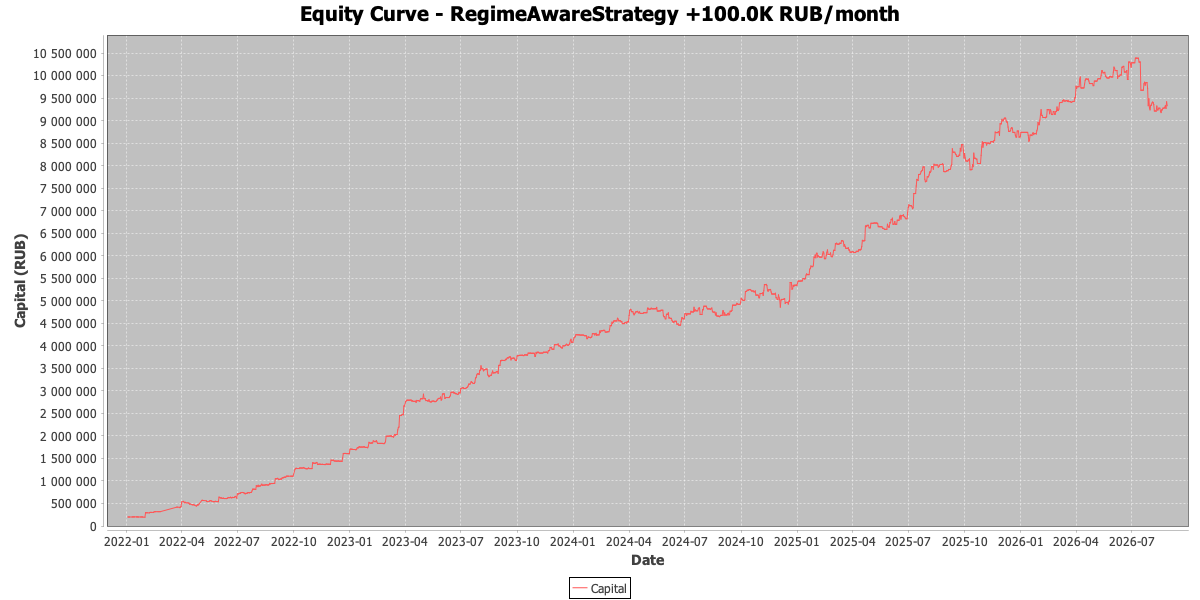
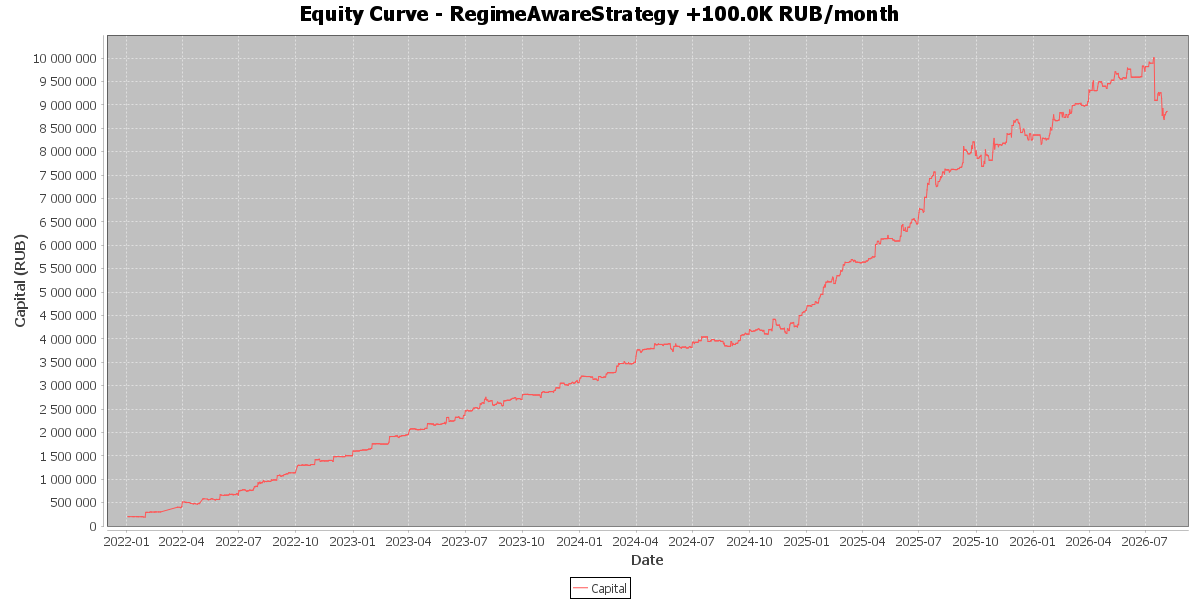
🐛 fix: align backtest with live and repair live trading issues
- restore throttled HOLD decision logging (30 min per ticker)

- trim backtest candle history to the live lookback window (60d HOUR / 72h 5_MIN)

- fix futures execution price normalization fallback (IMOEXF case)

- sync positions into delegate strategy so TMON@ parking sees open positions

- cooldown TMON@ after a failed parking order to stop retry spam

- add unifiedTrader.verboseLogging.enabled switch for diagnostic logs

- force UTF-8 stdout/stderr for runStrategy/runBacktest tasks

- ignore generated backtest-report.txt, update strategy chart

diff --git a/src/main/java/com/github/shk0da/goldendragon/strategy/BaseStrategy.java b/src/main/java/com/github/shk0da/goldendragon/strategy/BaseStrategy.java
@@ -462,12 +462,17 @@ import static java.util.concurrent.CompletableFuture.runAsync;
         if (cooldownUntil != null) {
             long remaining = cooldownUntil - timeProvider.currentTimeMillis();
             if (remaining > 0) {
-                log(
+                String cooldownMessage =
                         "Ticker "
                                 + name
                                 + " is on cooldown for "
                                 + (remaining / 1000)
-                                + "s, skipping.");
+                                + "s, skipping.";
+                if ("TMON@".equals(name)) {
+                    logThrottled(name + "_cooldown", cooldownMessage, 30);
+                } else {
+                    log(cooldownMessage);
+                }
                 return;
             } else {
                 tickerCooldown.remove(name);
@@ -547,15 +552,17 @@ import static java.util.concurrent.CompletableFuture.runAsync;
                         if (tmonPrice != null && tmonPrice > 0) {
                             double tmonValue = tmonQty * tmonPrice;
                             effectiveBalance = balance + tmonValue;
-                            log(
-                                    "EFFECTIVE-BALANCE "
-                                            + name
-                                            + ": cash="
-                                            + String.format("%.2f", balance)
-                                            + " + tmon="
-                                            + String.format("%.2f", tmonValue)
-                                            + " = "
-                                            + String.format("%.2f", effectiveBalance));
+                            if (isVerboseLogging()) {
+                                log(
+                                        "EFFECTIVE-BALANCE "
+                                                + name
+                                                + ": cash="
+                                                + String.format("%.2f", balance)
+                                                + " + tmon="
+                                                + String.format("%.2f", tmonValue)
+                                                + " = "
+                                                + String.format("%.2f", effectiveBalance));
+                            }
                         }
                     }
                 } catch (Exception ignored) {
@@ -566,7 +573,18 @@ import static java.util.concurrent.CompletableFuture.runAsync;
             TradingDecision decision =
                     decide(name, hourCandles, minuteCandles, storedPosition, effectiveBalance, hourChanged);
 
-            if (!"HOLD".equals(decision.action)) {
+            if ("HOLD".equals(decision.action)) {
+                // keep hold reasons visible with coarse throttling to avoid log spam
+                logThrottled(
+                    "hold_" + name,
+                    "HOLD "
+                        + name
+                        + ": reason="
+                        + decision.reason
+                        + " balance="
+                        + String.format("%.2f", balance),
+                    30);
+            } else {
                 logThrottled(
                     "decision_" + name,
                     "DECISION "
@@ -827,6 +845,8 @@ import static java.util.concurrent.CompletableFuture.runAsync;
                 String failedLogMessage =
                         "Failed to open " + decision.updatedPosition.direction + " for " + name + ".";
                 if ("TMON@".equals(name)) {
+                    // avoid retrying an untradable parking instrument every cycle
+                    tickerCooldown.put(name, timeProvider.currentTimeMillis() + COOLDOWN_DURATION_MS);
                     logThrottled(name + "_failed_open", failedLogMessage, 5);
                 } else {
                     log(failedLogMessage);
@@ -1469,6 +1489,9 @@ import static java.util.concurrent.CompletableFuture.runAsync;
      * @param throttleMinutes minutes to wait between logs for the same key
      */
     protected void logThrottled(String key, String message, long throttleMinutes) {
+        if (!isVerboseLogging()) {
+            return;
+        }
         long now = timeProvider.currentTimeMillis();
         long throttleMs = throttleMinutes * 60 * 1000L;
         Long lastTime = throttledLogLastTime.get(key);
@@ -1476,6 +1499,11 @@ import static java.util.concurrent.CompletableFuture.runAsync;
             throttledLogLastTime.put(key, now);
             log(message);
         }
+    }
+
+    /** Verbose diagnostic logging flag; trades and errors are always logged. */
+    protected boolean isVerboseLogging() {
+        return unifiedTraderConfig == null || unifiedTraderConfig.isVerboseLoggingEnabled();
     }
 
     protected static void shutdownExecutor(ExecutorService executor) {

diff --git a/src/main/java/com/github/shk0da/goldendragon/market/LiveMarketDataProvider.java b/src/main/java/com/github/shk0da/goldendragon/market/LiveMarketDataProvider.java
@@ -4,6 +4,7 @@ import com.github.shk0da.goldendragon.model.Candle;
 import com.github.shk0da.goldendragon.model.TickerInfo;
 import com.github.shk0da.goldendragon.repository.TickerRepository;
 import com.github.shk0da.goldendragon.service.TCSService;
+import com.github.shk0da.goldendragon.utils.PropertiesUtils;
 
 import java.sql.Timestamp;
 import java.time.OffsetDateTime;
@@ -11,6 +12,7 @@ import java.util.ArrayList;
 import java.util.Collections;
 import java.util.List;
 import java.util.Map;
+import java.util.Properties;
 import java.util.TreeMap;
 
 import ru.tinkoff.piapi.contract.v1.CandleInterval;
@@ -23,14 +25,34 @@ import ru.tinkoff.piapi.contract.v1.Quotation;
  */
 public class LiveMarketDataProvider implements MarketDataProvider {
 
+    private static final int DEFAULT_HOUR_LOOKBACK_DAYS = 60;
+    private static final int DEFAULT_MINUTE_LOOKBACK_HOURS = 72;
+
     private final TCSService tcsService;
     private final TickerRepository tickerRepository;
+    private final int hourLookbackDays;
+    private final int minuteLookbackHours;
     private static final ThreadLocal<java.text.SimpleDateFormat> CANDLE_TIME_FORMAT =
             ThreadLocal.withInitial(() -> new java.text.SimpleDateFormat("dd.MM.yyyy HH:mm:ss"));
 
     public LiveMarketDataProvider(TCSService tcsService) {
         this.tcsService = tcsService;
         this.tickerRepository = TickerRepository.INSTANCE;
+        int hourDays = DEFAULT_HOUR_LOOKBACK_DAYS;
+        int minuteHours = DEFAULT_MINUTE_LOOKBACK_HOURS;
+        try {
+            Properties properties = PropertiesUtils.loadProperties();
+            hourDays = Integer.parseInt(properties.getProperty(
+                    "unifiedTrader.live.hourLookbackDays",
+                    String.valueOf(DEFAULT_HOUR_LOOKBACK_DAYS)));
+            minuteHours = Integer.parseInt(properties.getProperty(
+                    "unifiedTrader.live.minuteLookbackHours",
+                    String.valueOf(DEFAULT_MINUTE_LOOKBACK_HOURS)));
+        } catch (Exception ignored) {
+            // fall back to defaults when config is unavailable
+        }
+        this.hourLookbackDays = hourDays;
+        this.minuteLookbackHours = minuteHours;
     }
 
     @Override
@@ -45,9 +67,9 @@ public class LiveMarketDataProvider implements MarketDataProvider {
         OffsetDateTime start;
 
         if ("HOUR".equals(interval)) {
-            start = now.minusDays(60);
+            start = now.minusDays(hourLookbackDays);
         } else if ("5_MIN".equals(interval)) {
-            start = now.minusHours(72);
+            start = now.minusHours(minuteLookbackHours);
         } else {
             return Collections.emptyList();
         }

diff --git a/src/main/java/com/github/shk0da/goldendragon/backtest/BacktestRunner.java b/src/main/java/com/github/shk0da/goldendragon/backtest/BacktestRunner.java
@@ -826,7 +826,11 @@ public class BacktestRunner {
                     minuteIndexByTicker.put(ticker, idx + 1);
                     continue;
                 }
-                List<Candle> hourHistory = marketData.hourCandles.subList(0, hourUpTo + 1);
+                // trim history to the same lookback window the live provider fetches
+                int hourFrom = lowerBound(
+                    marketData.hourTimes, currentTime.minusDays(config.getLiveHourLookbackDays()));
+                hourFrom = Math.min(Math.max(0, hourFrom), hourUpTo + 1);
+                List<Candle> hourHistory = marketData.hourCandles.subList(hourFrom, hourUpTo + 1);
                 int prevSeen = lastSeenHourIdx.getOrDefault(ticker, -1);
                 int seen = Math.max(prevSeen, hourUpTo);
                 boolean hourChanged = brokerPos.hasOpenPosition() && seen != prevSeen;
@@ -843,8 +847,12 @@ public class BacktestRunner {
                         }
                     }
                     strategy.getPositionStore().put(ticker, brokerPos.position);
+                    int minuteFrom = lowerBound(
+                        marketData.minuteTimes,
+                        currentTime.minusHours(config.getLiveMinuteLookbackHours()));
+                    minuteFrom = Math.min(Math.max(0, minuteFrom), idx + 1);
                     TradingDecision decision = strategy.decide(
-                        ticker, hourHistory, marketData.minuteCandles.subList(0, idx + 1),
+                        ticker, hourHistory, marketData.minuteCandles.subList(minuteFrom, idx + 1),
                         brokerPos.position, effectiveBalance, hourChanged);
                     executeDecisionViaBroker(ticker, strategy, decision, current, broker, cooldownCandles);
                     brokerPos = broker.getPositionState(ticker);
@@ -1181,6 +1189,23 @@ public class BacktestRunner {
                 left = mid + 1;
             } else {
                 right = mid - 1;
+            }
+        }
+        return ans;
+    }
+
+    /** First index with time >= target, or times.size() if all times are before target. */
+    private int lowerBound(List<LocalDateTime> times, LocalDateTime target) {
+        int left = 0;
+        int right = times.size() - 1;
+        int ans = times.size();
+        while (left <= right) {
+            int mid = (left + right) >>> 1;
+            if (!times.get(mid).isBefore(target)) {
+                ans = mid;
+                right = mid - 1;
+            } else {
+                left = mid + 1;
             }
         }
         return ans;

diff --git a/src/main/java/com/github/shk0da/goldendragon/strategy/UnifiedStrategy.java b/src/main/java/com/github/shk0da/goldendragon/strategy/UnifiedStrategy.java
@@ -707,7 +707,8 @@ public class UnifiedStrategy extends BaseStrategy {
 
         if (effectiveLeverage > 1
                 && fixedEntryLeverage == null
-                && unifiedTraderConfig.isAdaptiveLeverageEnabled()) {
+                && unifiedTraderConfig.isAdaptiveLeverageEnabled()
+                && isVerboseLogging()) {
             log(
                     "Adaptive leverage for "
                             + ticker
@@ -1203,14 +1204,16 @@ public class UnifiedStrategy extends BaseStrategy {
                             : 0;
             if (buyQty > 0) {
                 double totalCost = buyQty * currentPrice;
-                log(
-                        "TMON@: buying "
-                                + buyQty
-                                + " with idle cash "
-                                + String.format("%.2f", totalCost)
-                                + " (safe lot cost="
-                                + String.format("%.2f", effectiveCostPerLot)
-                                + ")");
+                if (isVerboseLogging()) {
+                    log(
+                            "TMON@: buying "
+                                    + buyQty
+                                    + " with idle cash "
+                                    + String.format("%.2f", totalCost)
+                                    + " (safe lot cost="
+                                    + String.format("%.2f", effectiveCostPerLot)
+                                    + ")");
+                }
                 return new TradingDecision(
                         "OPEN",
                         "tmon_cash_parking",

diff --git a/src/main/java/com/github/shk0da/goldendragon/config/UnifiedTraderConfig.java b/src/main/java/com/github/shk0da/goldendragon/config/UnifiedTraderConfig.java
@@ -403,6 +403,33 @@ public class UnifiedTraderConfig {
                 properties.getProperty("unifiedTrader.cooldownCandles", "3"));
     }
 
+    /**
+     * Controls verbose diagnostic logging (HOLD/DECISION summaries and per-cycle
+     * parking/sizing details). Trade executions and errors are always logged.
+     */
+    public boolean isVerboseLoggingEnabled() {
+        return Boolean.parseBoolean(
+                properties.getProperty("unifiedTrader.verboseLogging.enabled", "true"));
+    }
+
+    /**
+     * Hour candle history window in days fetched in live. Backtest trims history
+     * to the same window so simulation sees the same data depth as live.
+     */
+    public int getLiveHourLookbackDays() {
+        return Integer.parseInt(
+                properties.getProperty("unifiedTrader.live.hourLookbackDays", "60"));
+    }
+
+    /**
+     * Minute candle history window in hours fetched in live. Backtest trims history
+     * to the same window so simulation sees the same data depth as live.
+     */
+    public int getLiveMinuteLookbackHours() {
+        return Integer.parseInt(
+                properties.getProperty("unifiedTrader.live.minuteLookbackHours", "72"));
+    }
+
     @Override
     public String toString() {
         return "UnifiedTraderConfig{" + "dataDir='" + dataDir + '\'' + ", stocks=" + stocks + '}';

diff --git a/src/main/java/com/github/shk0da/goldendragon/service/TCSService.java b/src/main/java/com/github/shk0da/goldendragon/service/TCSService.java
@@ -1511,10 +1511,18 @@ public class TCSService {
         }
 
         if (referencePrice > 0.0) {
-            return Math.abs(perUnitFromTotal - referencePrice)
-                            < Math.abs(perUnitFromRaw - referencePrice)
-                    ? perUnitFromTotal
-                    : perUnitFromRaw;
+            // wide band tolerates illiquid spreads but rejects values that are
+            // clearly not per-unit prices (e.g. futures margin totals)
+            double wideTolerance = referencePrice * 0.10;
+            if (Math.abs(perUnitFromRaw - referencePrice) <= wideTolerance) {
+                return perUnitFromRaw;
+            }
+            if (Math.abs(perUnitFromTotal - referencePrice) <= wideTolerance) {
+                return perUnitFromTotal;
+            }
+            // no candidate resembles the order book price; the reference price
+            // is the closest available estimate of the true execution price
+            return referencePrice;
         }
         return perUnitFromTotal > 0.0 ? perUnitFromTotal : perUnitFromRaw;
     }

diff --git a/src/main/java/com/github/shk0da/goldendragon/strategy/RegimeAwareStrategy.java b/src/main/java/com/github/shk0da/goldendragon/strategy/RegimeAwareStrategy.java
@@ -106,6 +106,10 @@ public class RegimeAwareStrategy extends BaseStrategy {
             return new TradingDecision("HOLD", "NORMAL_WEAK_ADX" + (int) adx);
         }
 
+        // keep the delegate's position store in sync so TMON@ cash parking
+        // sees positions opened by this (outer) strategy
+        unifiedStrategy.setPosition(ticker, position != null ? position : new Position());
+
         // Call UnifiedStrategy with actual balance (no artificial size multiplier)
         TradingDecision decision =
                 unifiedStrategy.decide(
